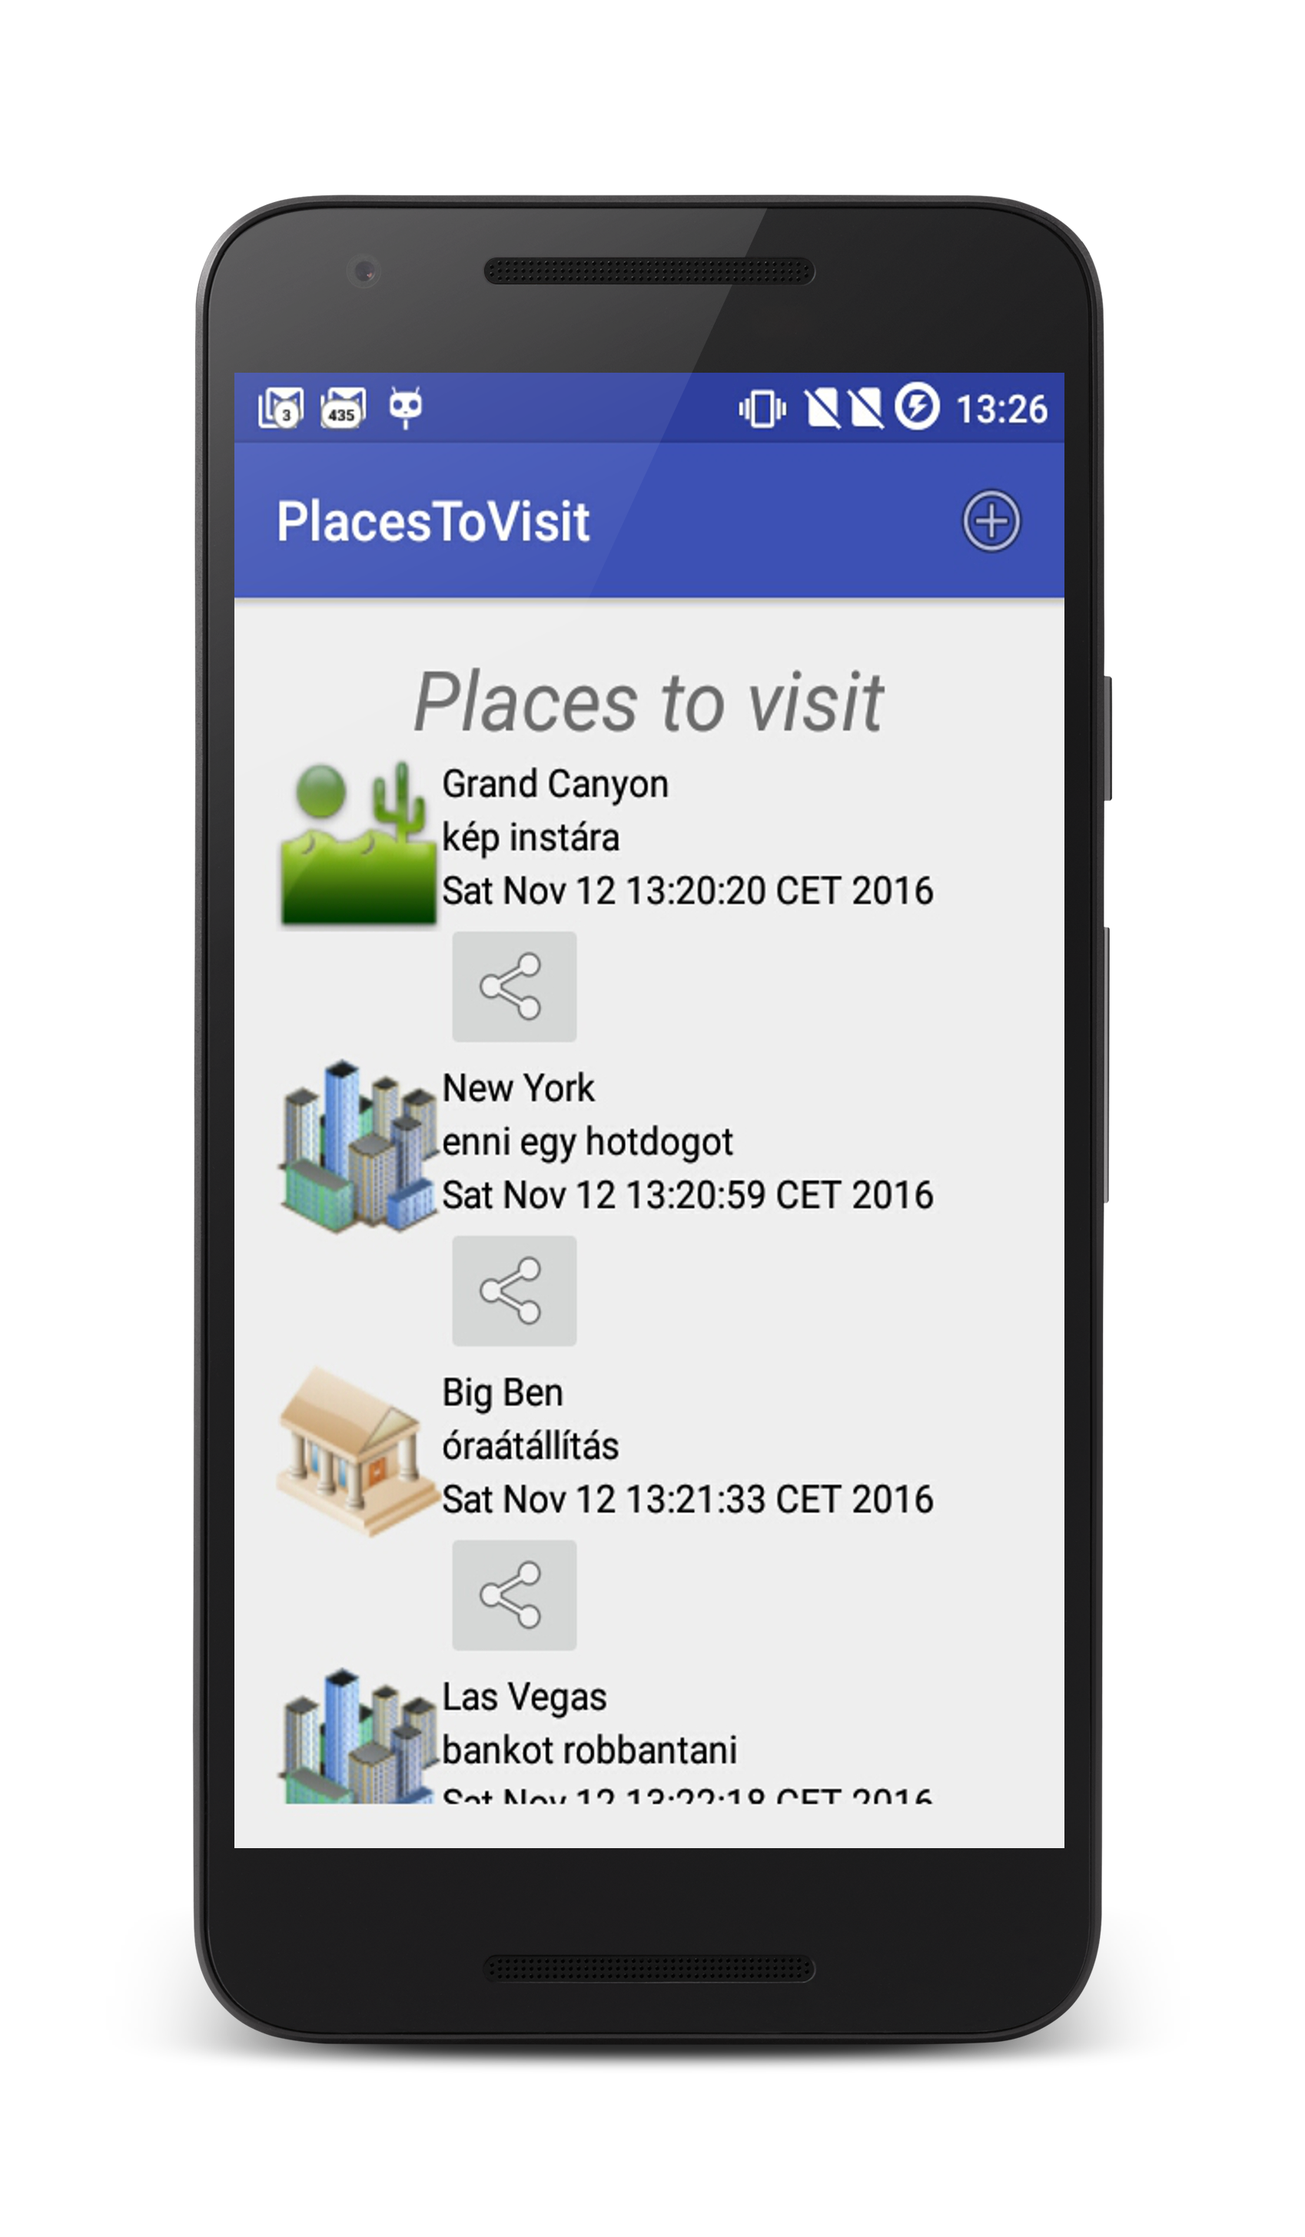
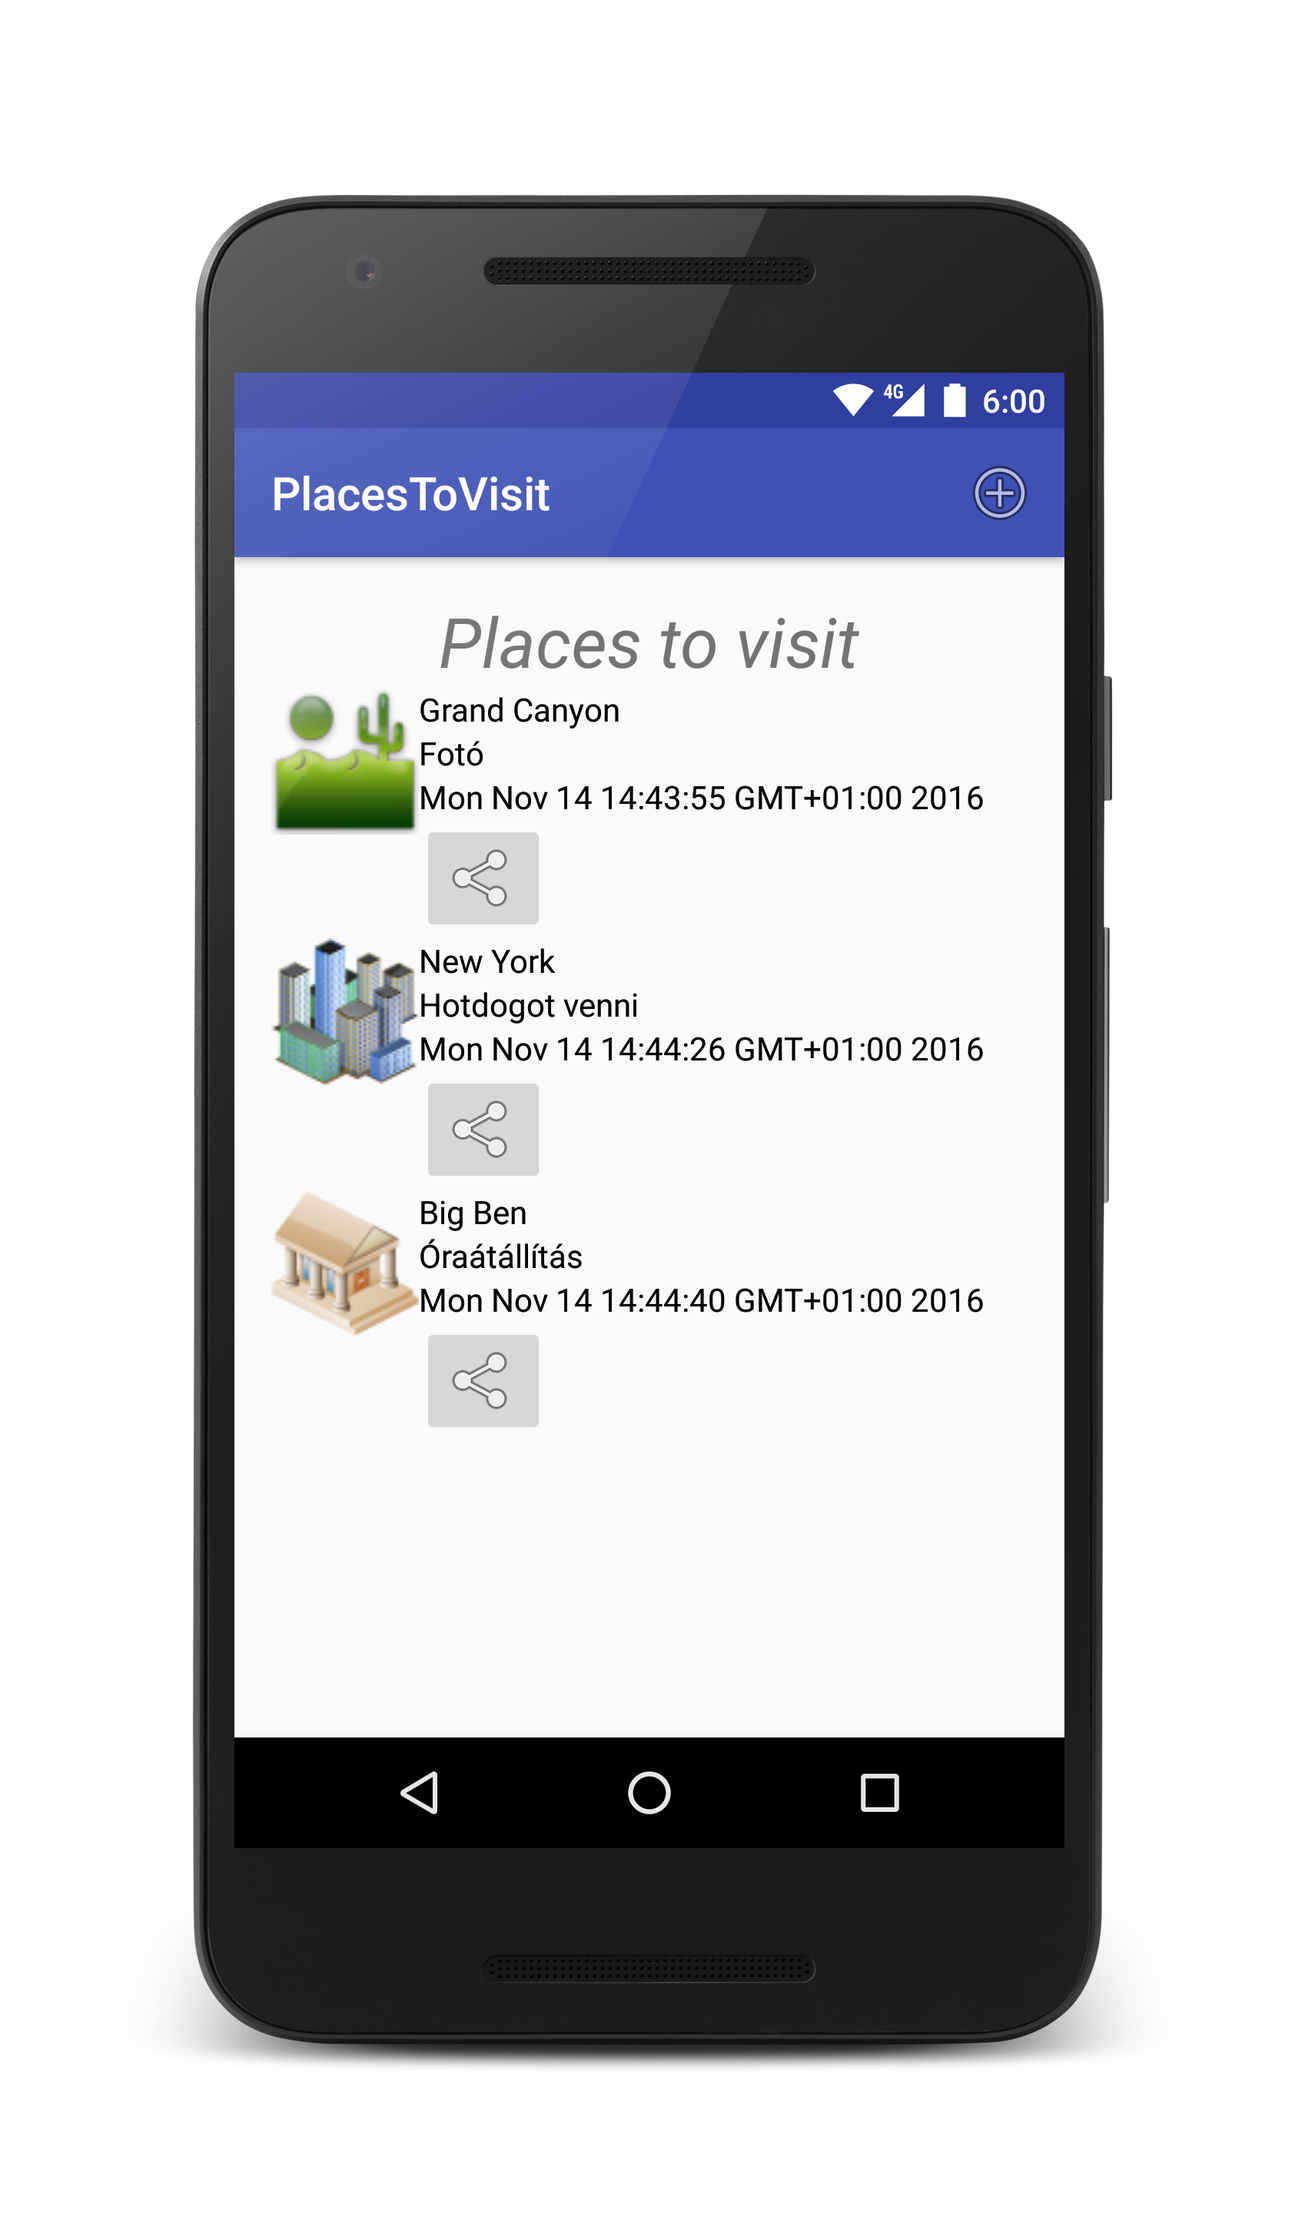
Screenshots fixed, formatting and minor fixes.

Changed region(s): [[0.1561, 0.1546, 0.8428, 0.8348]]

diff --git a/labor10/labor10.md b/labor10/labor10.md
@@ -11,22 +11,27 @@ Tartsuk szem előtt, hogy ez csak néhány egyszerű ötlet, és ahogy a *lollip
 ##Material és UX alapok
 
 Először is, akinek szándékában áll végigolvasni a teljes útmutatót később, az itt megteheti:
-[http://www.google.com/design/spec/material-design/introduction.html](http://www.google.com/design/spec/material-design/introduction.html)
+[https://material.google.com/#](https://material.google.com/#)
 
 
 * A material dizájnban lényeges minden elem megjelenése. Például a Floating Action Button vetett árnyéka nem véletlen. Funkciója kiemelkedik, ezért megjelenítéskor is azt próbáljuk hangsúlyozni, hogy feljebb van. Az elemeknek van Z tengely szerinti **magasságuk**, a rendszer ebből számolja az általuk vetett árnyékot.
-* Az animációknak jelentésük kell legyen. Csak úgy nem animálunk dolgokat, mert az jól néz ki. Ha egy listaelemre vagy kártyára tapint a felhasználó, akkor azt az elemet átanimálhatjuk az új képernyővé, úgy, hogy a kártya (vagy listaelem) olyan elemei, amik a következő képernyőn is szerepelnek elfoglalják új helyüket a második képernyőn. Az Android platformon már régóta elérhetőek egyszerű áttűnések, lapozások a képernyőátmenetek közt. Erre azért van szükség, mert a felhasználót (meg)zavarja a hirtelen váltás. A való életben sem villanással kerül az égre a madár, hanem lezajlik egy átmenet (a felszállás), ami átvezet a két állapot között. Emlékezzünk vissza: találkoztunk már olyan alkalmazással, ahol a képernyőváltás során oldalirányban úsztak ki-be a képernyők? Előre és visszafelé navigálásnál melyik irányba haladtak a képernyők?
-* Bár laboron a beépített komponensek során nem futunk ebbe a problémába, de jegyezzük meg: minden felhasználói interakcióra legyen visszajelzés! Gondoljunk bele mit teszünk, ha egy gombot megnyomva nem történik semmi (fel se villan a gomb nyomott állapota), mit feltételezünk? Jusson eszünkbe egyéni nézetek használatakor! A *material* szemlélet ezt bővíti azzal, hogy a kiváltott változás egy egyre nagyobb sugarú kör íve mentén történik, aminek középpontja az a hely, ahol a felhasználó kiváltotta a változást:
+
+* Az **animációknak jelentésük** kell legyen. Csak úgy nem animálunk dolgokat, mert az jól néz ki. Ha egy listaelemre vagy kártyára tapint a felhasználó, akkor azt az elemet átanimálhatjuk az új képernyővé, úgy, hogy a kártya (vagy listaelem) olyan elemei, amik a következő képernyőn is szerepelnek elfoglalják új helyüket a második képernyőn. Az Android platformon már régóta elérhetőek egyszerű áttűnések, lapozások a képernyőátmenetek közt. Erre azért van szükség, mert a felhasználót (meg)zavarja a hirtelen váltás. A való életben sem villanással kerül az égre a madár, hanem lezajlik egy átmenet (a felszállás), ami átvezet a két állapot között. Emlékezzünk vissza: találkoztunk már olyan alkalmazással, ahol a képernyőváltás során oldalirányban úsztak ki-be a képernyők? Előre és visszafelé navigálásnál melyik irányba haladtak a képernyők?
+
+* Bár laboron a beépített komponensek során nem futunk ebbe a problémába, de jegyezzük meg: **minden felhasználói interakcióra legyen visszajelzés!** Gondoljunk bele mit teszünk, ha egy gombot megnyomva nem történik semmi (fel se villan a gomb nyomott állapota), mit feltételezünk? Jusson eszünkbe egyéni nézetek használatakor! A *material* szemlélet ezt bővíti azzal, hogy a kiváltott változás egy egyre nagyobb sugarú kör íve mentén történik, aminek középpontja az a hely, ahol a felhasználó kiváltotta a változást:
 [material animáció](http://material-design.storage.googleapis.com/publish/material_v_3/material_ext_publish/0B3T7oTWa3HiFdWhpd296VUhLTFk/animation_responsiveinteraction_radialreaction.webm?_=1)
 
-* Minimális gépelés. Nehéz nagyobb fájdalmat okozni a felhsználónak annál, hogy mobilon kelljen gépelnie, nem véletlenül létezik annyi különböző gesztúra. Ha egyszerű bevitelről van szó (számok, intervallumok, dátumok) egyszerűsítsük csúszkával, vizuális naptári választóval.
+* **Minimális gépelés**. Nehéz nagyobb fájdalmat okozni a felhsználónak annál, hogy mobilon kelljen gépelnie, nem véletlenül létezik annyi különböző gesztúra. Ha egyszerű bevitelről van szó (számok, intervallumok, dátumok) egyszerűsítsük csúszkával, vizuális naptári választóval.
+
 * A *materialos* színekhez jó segítség az alábbi oldal: [http://www.materialpalette.com/](http://www.materialpalette.com/). Innen le is tudjuk tölteni xml formában a kapott színeket. Annyit érdemes tudni, hogy az “*accent*” színt csak a leghangsúlyosabb elemek kaphatják meg. Tipikusan ilyen a Floating Action Button, ami a képernyő legfontosabb funkcióját kell jelentse, ha van ilyen. Ugyanúgy másodlagos színt kapnak a Switch és a Slider nézetek is.
-* Ikonokat tervezni külön szakma, de mivel a legtöbb fejlesztő nem foglalkozik ilyesmivel másodállásban, ezért a Google nem csak néhány ikont készített el előre, hanem rengeteget. Innen letölthetők: [http://www.google.com/design/spec/resources/sticker-sheets-icons.html#sticker-sheets-icons-system-icons](http://www.google.com/design/spec/resources/sticker-sheets-icons.html#sticker-sheets-icons-system-icons). Valószínűleg megtaláljuk a nekünk kellőt. Alapszabály, hogy ne használjunk olyan ikont (bármennyire is jó lenne), ami már másik ismert funkciót jelöl. Hasonlóan kinéző komponenstől a felhasználó azt várja, hogy hasonlóan fog működni. A Floating Action Button funkciójának alapvetően egy pozitív cselekedetnek kell lennie (jó példa az új elem létrehozása, rossz példa a szín módosítása vagy a kuka törlése), így válasszunk ennek megfelelő ikont. A fentebb linkelt zipben rengeteg fájl van (több, mint 72.000). A laborhoz mellékeljük a szükséges ikonokat, de az otthoni használathoz a javasolt mód az alábbi:
- * Nyissuk meg a kitömörített mappa gyökerében az index.html-t
- * Válasszunk egy ikont (például az add ikon)
- * Menjünk a szekciójának mappájába (esetünkben ez a “content”)
- * Válasszuk ki a nekünk kellő variánst. Szerepel fehérben, feketében, szürkében és mindhárom színhez 4 féle méretben (nekünk az “*ic_add_white_24dp.png*” kell)
- * Menjünk egy könyvtárral feljebb és Total Commanderrel másoljuk az összes minősített mappát a célhelyre, de úgy, hogy megadjuk milyen illeszkedő fájlokat másoljon csak. Oda írjuk be a kiválasztott formátum fájlnevét.
+
+* Ikonokat tervezni külön szakma, de mivel a legtöbb fejlesztő nem foglalkozik ilyesmivel másodállásban, ezért a Google nem csak néhány ikont készített el előre, hanem rengeteget. Innen letölthetőka hivatalos ikonok: [http://www.google.com/design/spec/resources/sticker-sheets-icons.html#sticker-sheets-icons-system-icons](http://www.google.com/design/spec/resources/sticker-sheets-icons.html#sticker-sheets-icons-system-icons). 
+
+* A fejlesztői közösség az előbbit tovább gondolta, és létrehoztak egy oldalt ezen ikonok egyszerű kezelésére, illetve számos továbbival ki is egészítettek. [https://materialdesignicons.com/](https://materialdesignicons.com/) Valószínűleg megtaláljuk a nekünk kellőt. Alapszabály, hogy ne használjunk olyan ikont (bármennyire is jó lenne), ami már másik ismert funkciót jelöl. Hasonlóan kinéző komponenstől a felhasználó azt várja, hogy hasonlóan fog működni. A Floating Action Button funkciójának alapvetően egy pozitív cselekedetnek kell lennie (jó példa az új elem létrehozása, rossz példa a szín módosítása vagy a kuka törlése), így válasszunk ennek megfelelő ikont. A laborhoz mellékeljük a szükséges ikonokat, de az otthoni használathoz a javasolt mód az alábbi:
+
+ * Az Android 5.0 változatot töltsük le.
+ * Válasszuk ki a nekünk kellő variánst. Szerepel fehérben, feketében, szürkében és mindhárom színhez 4 féle méretben (nekünk az `ic_add_white_24dp.png` kell)
+ * Menjünk egy könyvtárral feljebb másoljuk az összes minősített mappát a célhelyre.
 
 * Tartsunk megfelelő távolságokat az elemek között, különösen ügyelve az interaktív elemekre. Lesz olyan, akinek nálunk nagyobb az ujjbegye, gondoljunk rá is! A tartalom ne kezdődjön a képernyő 0. pixelénél! Az ajánlásokban elég részletesen taglalják a számokat: az új *guideline* szerint minden elem egy 8dp-s rácsban helyezkedik el. Ez alól kivételek a szövegek (amiknek alapvonala igazodik 4dp-hez) és a *toolbar* ikonjai (szintén 4 dp). Tehát alapvetően mindennek a mérete vagy a távolsága n x 8dp. A kijelző szélétől tartandó margó például 16dp, az érinthető területek minimum mérete 48 x 48dp, a köztük tartandó távolság pedig minimum 8dp, de inkább több.
 * A képi elemek legyen inkább személyesek. Ne használjunk pár élettelen mosolyú modell arcát mutató sotck fotókat, a képnek legyen köze a tartalomhoz. A személyes (felhasználó készítette) képek még jobbak. A képek töltsék ki a teret, amennyire csak lehet! Ez azt jelenti, hogy szélességben a teljes kijelzőt fedje, magasságban pedig lehetőleg valamilyen jellegzetes arány vonalát kövesse. Van néhány ajánlás, ezekre az arányokra – mármint arra hogy bizonyos képarányú elemek magassága hol helyezkedik el.
@@ -57,8 +62,6 @@ Most, hogy néhány hasznos dolgot megismertünk, ideje letöltenünk a prototí
 Tömörítsük ki a mappát, indítsuk el az Android Studio-t, majd az Open segítségével nyissuk meg az alkalmazást.
 
 <img src="./images/screen1_framed.png" width="200" align="middle">
-
-A kezdőalkalmazás.
 
 Ennek az alkalmazásnak az a feladata, hogy meglátogatandó helyeket gyűjtsünk benne. A prototípus arra koncentrál, hogy minimális funkcionalitást valósítson meg gyorsan. Az adatok perzisztens tárolásához a *Sugar ORM* ([http://satyan.github.io/sugar/](http://satyan.github.io/sugar/)) könyvtárat használja . Laborvezetővel tekintsék át a kódot és a működést! Főbb elemei:
 
@@ -110,7 +113,7 @@ FloatingActionButton fab =
 ```
 
 
-Az activity_places_list.xmlben az include után:
+Az `activity_places_list.xml`ben az include után:
 
 ```xml
 <android.support.design.widget.FloatingActionButton
@@ -130,7 +133,7 @@ A Floating Action Button ikonja fontos szerepet játszik. A felhasználónak  el
 
 [Drawable.zip](./assets/drawable.zip)
 
-Tömörítsük ki és tegyük a projektünkbe, majd állítsuk be a FAB ikonját az activity_places_list.xml-ben:
+Tömörítsük ki és tegyük a projektünkbe, majd állítsuk be a FAB ikonját az `activity_places_list.xml`-ben:
 
 ```xml
 app:srcCompat="@drawable/ic_add_white_24dp"
@@ -141,7 +144,7 @@ app:srcCompat="@drawable/ic_add_white_24dp"
 
 Jelenleg a Toolbaron megjelenik az Activity neve, ami "PlacesToVisit", alatta egy TextView-ban pedig a szöveg, hogy "Places to visit". Ezek közül az egyik felesleges, és szebb, ha a normál helyesírás szerinti "Places to visit"-et hagyjuk meg. Azonban egy üres Toolbarnak nincs sok értelme, úgyhogy inkább rakjuk fel ezt a szöveget oda.
 
-Ehhez először is az activity_places_list.xml-ben a Toolbar tagen belül vegyük fel az app:title attribútumot, és vegyük fel a string erőforrást.
+Ehhez először is az `activity_places_list.xml`-ben a Toolbar tagen belül vegyük fel az app:title attribútumot, és vegyük fel a string erőforrást.
 
 ```xml
 app:title="@string/places_to_visit"
@@ -151,7 +154,7 @@ app:title="@string/places_to_visit"
 <string name="places_to_visit">Places to visit</string>
 ```
 
-Majd töröljük a content_places_list.xmlből a TextViewt, a RecyclerView-t pedig igazítsuk a szülője tetejéhez.
+Majd töröljük a `content_places_list.xml`-ből a TextViewt, a RecyclerView-t pedig igazítsuk a szülője tetejéhez.
 
 ```xml
 android:layout_alignParentTop="true"
@@ -166,7 +169,7 @@ Próbáljuk ki az alkalmazást!
 
 ### Üres lista
 
-Kevesen készülnek arra a lehetőségre, hogy mi fogadja a felhasználót akkor, ha üres a listanézet. Célszerű ilyenkor az üres lista helyett valamilyen szöveget megjeleníteni. Írjuk tehát át a content_places_list.xmlt.
+Kevesen készülnek arra a lehetőségre, hogy mi fogadja a felhasználót akkor, ha üres a listanézet. Célszerű ilyenkor az üres lista helyett valamilyen szöveget megjeleníteni. Írjuk tehát át a `content_places_list.xml`-t.
 
 ```xml
 <RelativeLayout xmlns:android="http://schemas.android.com/apk/res/android"
@@ -313,7 +316,7 @@ Hozzunk létre egy új erőforrás mappát! A neve legyen **values-v21**! Ebbe m
 
 ```
 
-Most meg kell adjuk az xml erőforrásokban, hogy miből-mit kell animálni. Ehhez úgy párosítjuk össze őket, hogy új attribútumot veszünk fel mind a Floating Action Button-hez, mind az activity_create_place_to_visit.xml gyökér eleméhez (Ez ugye a LinearLayout).
+Most meg kell adjuk az xml erőforrásokban, hogy miből-mit kell animálni. Ehhez úgy párosítjuk össze őket, hogy új attribútumot veszünk fel mind a Floating Action Button-hez, mind az `activity_create_place_to_visit.xml` gyökér eleméhez (Ez ugye a LinearLayout).
 
 ```xml
 android:transitionName="create"
@@ -347,7 +350,7 @@ Nem a legjobb, hiszen az alkalmazás második képernyője eredetileg dialógus 
 
 Az Activity azonban még így sem tökéletes, hiszen ha nagyon hosszú leírást adunk neki, akkor a Save gomb kicsúszik a képernyőről és használhatatlan lesz. Rögzítsük tehát a gombot a képernyő aljára, a fölötte lévő tartalmat pedig tegyük görgethetővé!
 
-Az activity_create_place_to_visit.xml gyökérelemét változtassuk RelativeLayout-ra, a benne lévő gombot pedig kössük az aljához.
+Az `activity_create_place_to_visit.xml` gyökérelemét változtassuk RelativeLayout-ra, a benne lévő gombot pedig kössük az aljához.
 
 ```xml
 android:layout_alignParentBottom="true"
@@ -379,13 +382,13 @@ private void showText(String text) {
 }
 ```
 
-Hívás:
+Hívás:s
 
 ```java
 showText(getResources().getString(R.string.cancelled));
 ```
 
-A Snackbar.make(...) függvény első paramétere egy View. Adjuk meg ide az Activitynk CoordinatorLayout-ját. Ehhez az activity_places_list.xml-ben id-t kell neki adni, a PlacesListActivityben felvenni változóként, majd az onCreate-ben referenciát szerezni rá.
+A Snackbar.make(...) függvény első paramétere egy View. Adjuk meg ide az Activitynk CoordinatorLayout-ját. Ehhez az `activity_places_list.xml`-ben id-t kell neki adni, a PlacesListActivityben felvenni változóként, majd az onCreate-ben referenciát szerezni rá.
 
 Próbáljuk ki a Snakcbart!
 
@@ -394,12 +397,14 @@ Próbáljuk ki a Snakcbart!
 
 ## Önálló feladat
 
+### Feladat 1 - Továbbfejlesztés
+
 A fenti alapok segítségével alakítsa tovább az alkalmazást!
 
 * Csökkentse a listában megjelenített információkat
 * Készítsen új képernyőt, ahol részletesen jeleníti meg az adott helyet
 * Készítse fel a felületet arra, hogy később a felhasználónak lehetősége lesz képet rögzíteni a helyről
 
-### Feladatok haladóknak:
+### Feladat 2 - Swipe to delete
 
 Valósítsa meg a swipe gesztussal való törlést (és esetleg módosítást). Használhatja például a következő osztálykönyvtárat: [https://github.com/wdullaer/SwipeActionAdapter](https://github.com/wdullaer/SwipeActionAdapter)
